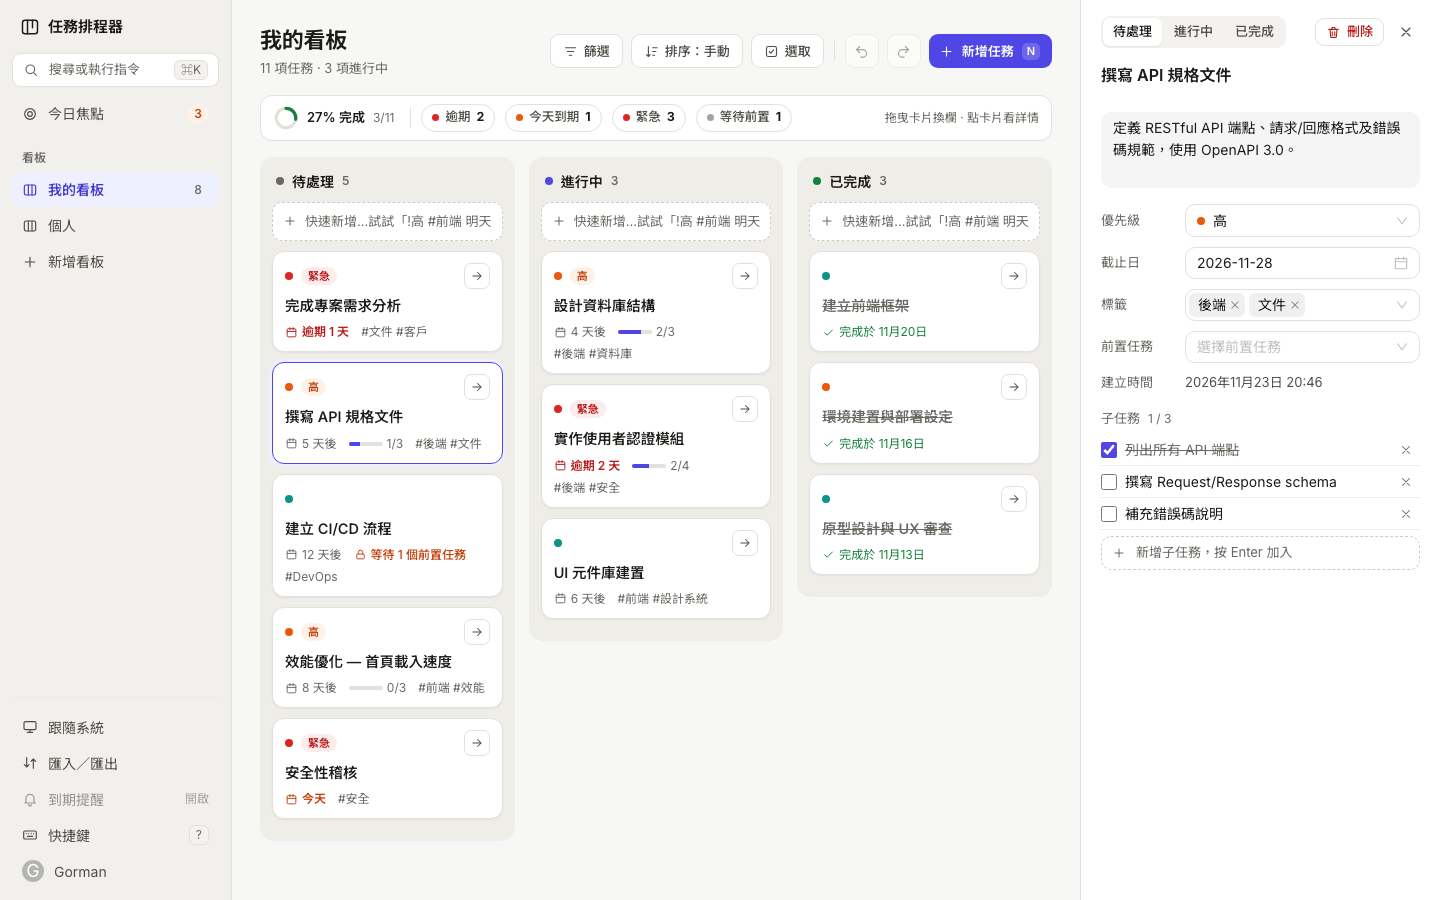
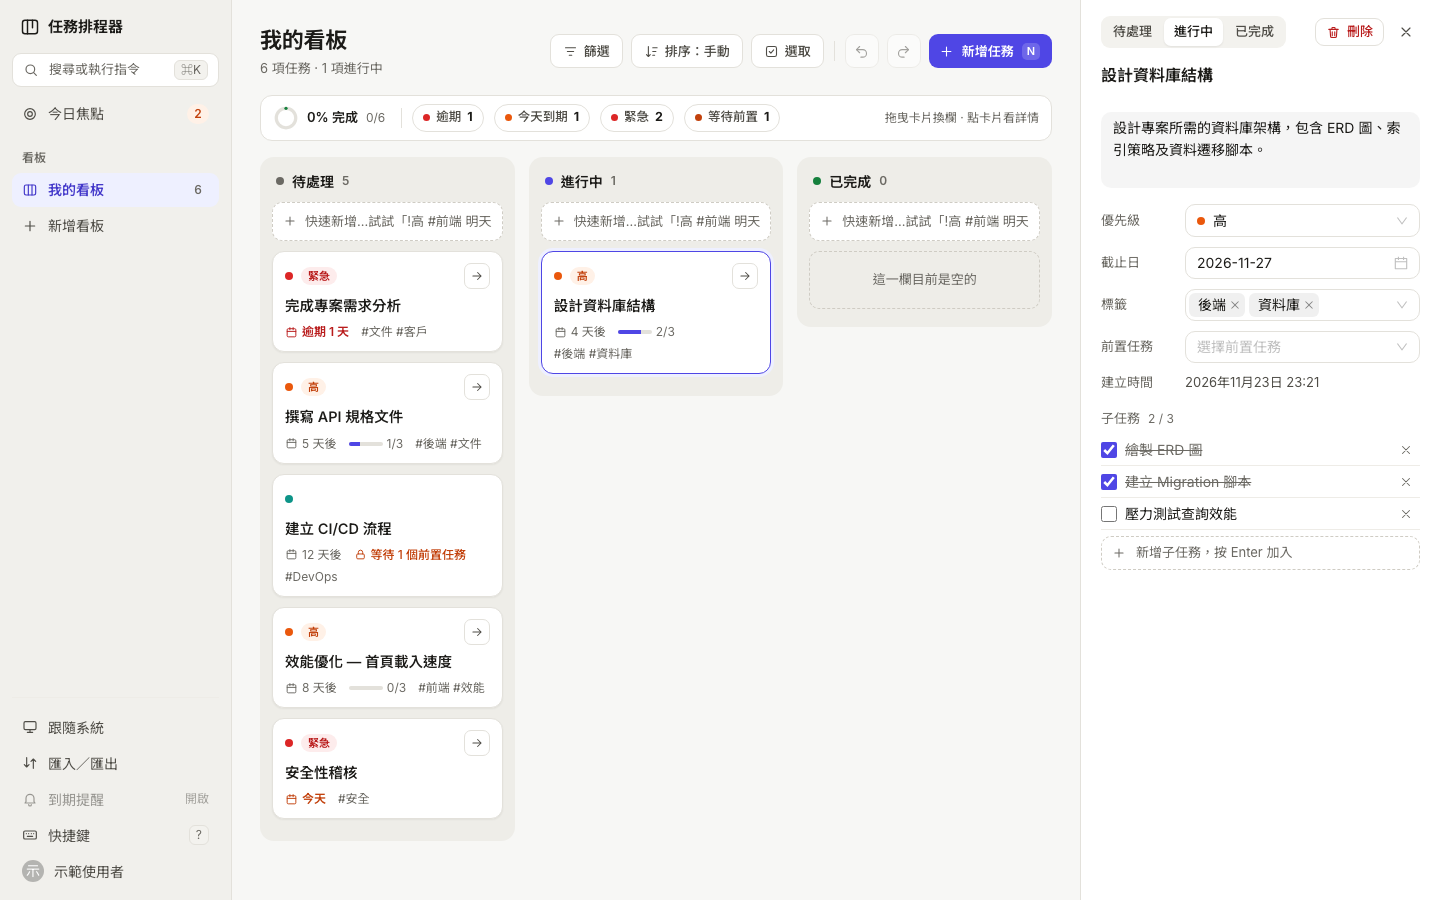
docs: README with live URL, security notes and real screenshots; fix Vercel output dir
- vercel.json: set outputDirectory to .next (the Vercel project still had the
  old Vite "dist" setting, which failed every Next.js deploy)
- README: keep the site URL up top, add architecture and security sections,
  document connecting Neon via `vercel integration add neon`, keeping Preview
  off the production database, and that a Vercel-generated .env.local may
  point at production; E2E now says it needs a Neon branch
- docs/: screenshots of the real app (board, Today focus in dark mode, mobile)
  taken with a demo account and sample tasks on a throwaway database

diff --git a/README.md b/README.md
@@ -1,24 +1,30 @@
 # 任務排程器 Task Scheduler
 
-個人用的看板式任務管理：登入後資料存在雲端資料庫，每台裝置同步。以「今日焦點」把所有看板中該做的事排在一起，用快速新增語法與 ⌘K 指令面板，不離開鍵盤就能新增、跳轉、操作任務。
+個人用的看板式任務管理。登入後資料存在雲端資料庫，每台裝置同步；「今日焦點」把所有看板裡該做的事排在一起，搭配快速新增語法與 ⌘K 指令面板，不離開鍵盤就能新增、跳轉、操作任務。
 
-![任務排程器截圖：看板頁，含統計列、三欄看板與右側詳情欄](./docs/screenshot.png)
+**網站入口：<https://task-scheduler-rouge-gr925.vercel.app/>**（用 GitHub 或 Google 帳號登入，每個人的資料各自獨立）
 
-[線上版](https://task-scheduler-rouge-gr925.vercel.app/)（需用 GitHub 或 Google 登入）
+![看板頁：左側欄、統計列、待處理／進行中／已完成三欄，右側開著「設計資料庫結構」的詳情欄](./docs/screenshot.png)
+
+| 今日焦點（深色模式） | 手機版 |
+|:---:|:---:|
+| ![今日焦點：已逾期、今天到期、接下來 7 天、等待前置任務四組，右側是建議先處理與看板進度](./docs/screenshot-focus-dark.png) | <img src="./docs/screenshot-mobile.png" alt="手機版看板：狀態分頁切換欄位，右下角浮動新增按鈕" width="260"> |
+
+> 截圖是用示範帳號與內建的範例任務在本機拍攝，不含任何真實使用者資料。
 
 ## 功能
 
-- **今日焦點**：跨看板彙整「已逾期 / 今天到期 / 接下來 7 天 / 等待前置任務」，並建議先處理哪一件、各看板進度與過去 7 天完成數。
-- **看板**：多個看板；待處理／進行中／已完成三欄，可拖曳排序與換欄；統計列（完成率、逾期、今天到期、緊急、等待前置）的晶片同時是篩選器；另有篩選、排序與全文搜尋。
+- **今日焦點**：跨看板彙整「已逾期 / 今天到期 / 接下來 7 天 / 等待前置任務」，並建議先處理哪一件，顯示各看板進度與過去 7 天完成數。
+- **看板**：可建多個看板；待處理／進行中／已完成三欄，拖曳排序與換欄。統計列（完成率、逾期、今天到期、緊急、等待前置）的晶片同時是篩選器；另有篩選、排序與全文搜尋。
 - **⌘K 指令面板**：搜尋所有看板的任務（標題與標籤）與動作（新增任務、前往今日焦點、切換看板與主題、匯出／匯入、開啟到期提醒、復原）；沒有結果時按 Enter 直接建立新任務。
 - **智慧快速新增**：每欄頂端的輸入框即時解析語法並預覽（見下表）。
-- **右側詳情欄**：直接編輯標題、描述、優先級、截止日、標籤、前置任務、子任務；不遮住看板。網址帶 `?task=<id>`，可直接分享或重新整理後回到同一筆。
-- **刪除即復原**：刪除不跳確認框，底部提示列約 6 秒內可按「復原」；所有變更皆可 `⌘Z` 復原、`⌘⇧Z` 重做。刪除看板仍會先確認。
-- **批次操作**：選取多筆任務後一次移動狀態或刪除（被前置任務擋住的任務會被略過並回報）。
-- **前置任務**：有未完成前置任務的待處理任務會顯示「等待前置任務」，在前置任務完成前不能開始。
-- **匯入／匯出**：匯出目前看板為 JSON；匯入**只會取代目前看板**的任務，其他看板不受影響，且可用 `⌘Z` 復原。也能匯入舊版（Vite 版）匯出的檔案。
+- **右側詳情欄**：直接編輯標題、描述、優先級、截止日、標籤、前置任務、子任務，不遮住看板。網址帶 `?task=<id>`，重新整理後會回到同一筆。
+- **刪除即復原**：刪除不跳確認框，底部提示列約 6 秒內可按「復原」；所有變更都能 `⌘Z` 復原、`⌘⇧Z` 重做。刪除看板仍會先確認。
+- **批次操作**：選取多筆任務後一次移動狀態或刪除；被前置任務擋住的任務會被略過並回報。
+- **前置任務**：還有未完成前置任務的待處理任務會標示「等待前置任務」，在前置任務完成前不能開始；循環相依會被拒絕。
+- **匯入／匯出**：匯出目前看板為 JSON；匯入**只會取代目前看板**的任務，其他看板不受影響，也能用 `⌘Z` 復原。可匯入舊版（Vite 版）匯出的檔案。
 - **舊資料搬家**：第一次登入時，若這台瀏覽器還留有舊版存在 localStorage 的資料，頁面頂端會提示「匯入 / 略過」；舊資料本身不會被刪除。
-- **到期提醒（需手動開啟）**：預設關閉，也不會一開頁就詢問權限；在側欄或指令面板按「開啟到期提醒」後，分頁開著時每 10 分鐘檢查一次逾期與 24 小時內到期的任務，同一筆只通知一次。
+- **到期提醒（需手動開啟）**：預設關閉，也不會一開頁就詢問權限。在側欄或指令面板按「開啟到期提醒」後，分頁開著時每 10 分鐘檢查一次逾期與 24 小時內到期的任務，同一筆只通知一次。
 - **深色模式**：淺色／深色／跟隨系統。
 - **手機版**（< 768px）：側欄變抽屜、看板一次顯示一欄、詳情欄改為底部面板、右下角浮動新增按鈕。
 
@@ -51,40 +57,62 @@
 | `⌘⇧Z` / `Ctrl+Y` | 重做 |
 | `?` | 快捷鍵說明 |
 
+## 架構
+
+前端與 API 在同一個 Next.js 專案裡，部署在 Vercel，資料存在 Neon Postgres。
+
+```
+app/            頁面（(auth)/login、(app)/ 今日焦點與看板）與 API（app/api/*）
+src/server/     資料庫 schema、Better Auth 設定、各資源的 service（所有查詢都帶使用者 id）
+src/client/     Redux store、RTK Query、復原／重做、快捷鍵
+src/components/ 介面元件
+src/lib/        前後端共用的純函式（快速新增解析、日期、排序位置、輸入檢查）
+drizzle/        資料庫 migration
+test/  e2e/     Vitest 單元與 API 測試、Playwright 端對端測試
+```
+
+## 資安
+
+- **密鑰不進版本庫。** 所有連線字串與 OAuth 密鑰只放在環境變數：本機在 `.env.local`（`.env*.local` 已被 `.gitignore` 排除），正式環境在 Vercel 專案設定。版本庫裡只有不含任何值的 `.env.example`。不要把真實的值寫進 README、issue、PR 或截圖。
+- **每個人只看得到自己的資料。** 每個 API 都先確認登入（未登入回 401），所有資料庫查詢都以登入者的 id 篩選；別人的看板或任務 id 一律當作不存在。
+- **帳號合併要已驗證的 email。** GitHub 與 Google 回報相同 email、且雙方都標示已驗證時才視為同一人，避免用未驗證的 email 接管別人的帳號（見下方「登入與帳號連結」）。
+- **測試用的密碼登入在正式環境永遠關閉。** `E2E_AUTH=1` 只在 `NODE_ENV` 不是 `production` 時生效，Vercel 上也不要設定它。
+- **輸入一律檢查。** API 的請求內容都經過 zod 驗證並限制長度與數量；登入後的跳轉只接受站內路徑，避免被利用成開放式重新導向。
+- **預覽部署受保護。** Vercel 的 Preview 網址開啟了部署保護，只有專案成員能看。
+
+如果發現安全問題，請私下聯絡作者，不要開公開 issue。
+
 ## 本機開發
 
 需要 Node.js 20.9+ 與 npm。
 
 1. 安裝相依套件：`npm install`
-2. 建立資料庫：在 [Neon](https://neon.tech) 建一個 Postgres 專案，複製連線字串（`postgresql://…`）。
+2. 準備資料庫：在 [Neon](https://neon.tech) 為開發另開一個 branch（不要用正式資料庫），複製它的連線字串（`postgresql://…`）。
 3. 建立 GitHub OAuth App（GitHub → Settings → Developer settings → OAuth Apps）：
    - Homepage URL：`http://localhost:3000`
    - Authorization callback URL：`http://localhost:3000/api/auth/callback/github`
 4. 建立 Google OAuth 用戶端（Google Cloud Console → API 和服務 → 憑證 → OAuth 用戶端 ID，類型「網頁應用程式」）：
    - 已授權的重新導向 URI：`http://localhost:3000/api/auth/callback/google`
-5. 複製環境變數範本並填值：`cp .env.example .env.local`
-   - `DATABASE_URL`：第 2 步的連線字串
-   - `BETTER_AUTH_SECRET`：`openssl rand -base64 32` 產生
-   - `BETTER_AUTH_URL`：`http://localhost:3000`
-   - `GITHUB_CLIENT_ID` / `GITHUB_CLIENT_SECRET`、`GOOGLE_CLIENT_ID` / `GOOGLE_CLIENT_SECRET`：第 3、4 步取得
+5. 複製環境變數範本並填值：`cp .env.example .env.local`（各變數見下節）。
+   > 用 `vercel env pull` 或 `vercel integration add neon` 產生的 `.env.local`，裡面的 `DATABASE_URL` 是 Vercel 上 Development 環境的值；若那個值指向正式資料庫，本機開發就會直接讀寫正式資料，請改成第 2 步的開發 branch。
 6. 建立資料表：`npm run db:migrate`。drizzle-kit 只讀 `.env`、不讀 `.env.local`，請先在 shell 設定 `DATABASE_URL`，例如 `export $(grep '^DATABASE_URL=' .env.local)`。
-7. 啟動：`npm run dev`，開啟 `http://localhost:3000`。未登入會被導向 `/login`（已登入再開 `/login` 會直接回到 `?next=` 指的頁面，預設今日焦點）；第一次登入會自動建立「我的看板」。
-8. 檢查：`npm test`（Vitest，用 PGlite，不需要資料庫）、`npx tsc --noEmit`、`npm run lint`、`npm run build`。
-
-帳號連結規則見下方「登入與帳號連結」。
+7. 啟動：`npm run dev`，開啟 `http://localhost:3000`。未登入會被導向 `/login`；第一次登入會自動建立「我的看板」，空看板上可按「載入範例任務」。
+8. 檢查：`npm test`、`npx tsc --noEmit`、`npm run lint`、`npm run build`。
 
 ## 環境變數
 
-複製 `.env.example` 為 `.env.local` 後填值。正式環境在 Vercel 專案設定中設定同名變數。
+本機寫在 `.env.local`，正式環境在 Vercel 專案設定中設定同名變數。
 
 | 變數 | 說明 |
 |------|------|
-| `DATABASE_URL` | Neon 的 Postgres 連線字串（本機開發也一樣：資料庫驅動 `@neondatabase/serverless` 走 Neon 的 WebSocket，一般本機 Postgres 連不上；`npm test` 用 PGlite，不需要） |
-| `BETTER_AUTH_SECRET` | Better Auth 簽署 session 用的密鑰，以 `openssl rand -base64 32` 產生 |
-| `BETTER_AUTH_URL` | 網站的公開網址：本機 `http://localhost:3000`，正式環境為你的網域 |
+| `DATABASE_URL` | Neon 的 Postgres 連線字串。資料庫驅動 `@neondatabase/serverless` 走 Neon 的 WebSocket，一般本機 Postgres 連不上；`npm test` 用 PGlite，不需要 |
+| `BETTER_AUTH_SECRET` | 簽署登入 session 的密鑰，以 `openssl rand -base64 32` 產生；Production 與 Preview 各用一組 |
+| `BETTER_AUTH_URL` | 網站的公開網址：本機 `http://localhost:3000`，正式環境 `https://task-scheduler-rouge-gr925.vercel.app` |
 | `GITHUB_CLIENT_ID` / `GITHUB_CLIENT_SECRET` | GitHub OAuth App |
 | `GOOGLE_CLIENT_ID` / `GOOGLE_CLIENT_SECRET` | Google OAuth 用戶端 |
-| `E2E_AUTH` | 設為 `1` 時（且 `NODE_ENV` 不是 `production`）啟用 email／密碼登入，僅供 Playwright E2E 使用；正式環境永遠不會啟用，也不要設定 |
+| `E2E_AUTH` | 設為 `1` 時（且 `NODE_ENV` 不是 `production`）啟用 email／密碼登入，僅供 Playwright 使用；正式環境不要設定 |
+
+Vercel 的 Neon 整合還會加上 `POSTGRES_*`、`PG*`、`NEON_*` 等變數，本專案沒有用到，保留即可。
 
 ## npm scripts
 
@@ -104,25 +132,27 @@
 
 `e2e/main-flow.spec.ts` 走完主要流程：登入 → 快速新增 → 拖到進行中 → 詳情欄改優先級 → 刪除再復原 → 建第二個看板 → ⌘K 跳到另一個看板的任務 → 今日焦點 → 重新整理後資料仍在 → 全程沒有請求通知權限。
 
-- 需要一個**測試專用**的 Postgres（建議在 Neon 開一個 branch），先套用 migration：`export DATABASE_URL=postgresql://…` 後執行 `npm run db:migrate`。
-- 還要有 `BETTER_AUTH_SECRET` 與 `BETTER_AUTH_URL=http://localhost:3000`（GitHub／Google 變數可留空）。Playwright 會自行啟動 `npm run dev` 並帶上 `E2E_AUTH=1`，由 `e2e/global-setup.ts` 註冊一個測試帳號、把登入狀態存到 `e2e/.auth/`（已加入 .gitignore）。
+- 需要一個**測試專用的 Neon branch**（不能用一般本機 Postgres，原因見「環境變數」）。先套用 migration：`export DATABASE_URL=postgresql://…` 後執行 `npm run db:migrate`。
+- 還要有 `BETTER_AUTH_SECRET` 與 `BETTER_AUTH_URL=http://localhost:3000`（GitHub／Google 變數可留空）。Playwright 會自行啟動 `npm run dev` 並帶上 `E2E_AUTH=1`，由 `e2e/global-setup.ts` 註冊一個測試帳號、把登入狀態存到 `e2e/.auth/`（已加入 `.gitignore`）。
 - 首次執行先安裝瀏覽器：`npx playwright install chromium`。
-- **沒有設定 `DATABASE_URL` 時整組測試會自動略過**，`npm run test:e2e` 仍以 0 結束。每次執行都會在資料庫留下一個測試帳號，請只用在拋棄式的測試資料庫。
+- **沒有設定 `DATABASE_URL` 時整組測試會自動略過**，`npm run test:e2e` 仍以 0 結束。每次執行都會在資料庫留下一個測試帳號，請只用在拋棄式的測試 branch。
 
 ## 部署到 Vercel
 
-1. 把專案匯入 Vercel，Framework 選 Next.js（`vercel.json` 已指定）。
-2. 在專案設定加入上節的環境變數（不要設 `E2E_AUTH`）。`BETTER_AUTH_URL` 填正式網域（例如 `https://your-app.vercel.app`）。`DATABASE_URL` **依 Vercel 環境分開設定**：Production 用正式的 Neon 資料庫，Preview 用另一個 Neon branch。因為第 4 步的 build 指令每次建置都會先跑 `db:migrate`，Preview 若共用正式的 `DATABASE_URL`，任何分支的預覽部署都會把尚未合併的 migration 套到正式資料庫。
-3. 把 OAuth 的 callback 改成正式網域（或另外再建一組給正式環境）：
-   - GitHub：`https://<正式網域>/api/auth/callback/github`
-   - Google：`https://<正式網域>/api/auth/callback/google`
-4. 部署。`vercel.json` 的 build 指令是 `npm run db:migrate && npm run build`，每次部署（Production 與 Preview 都是）會先對該環境的 `DATABASE_URL` 套用尚未執行的 migration，成功才繼續建置；migration 失敗會讓部署失敗而不會上線。
+1. 把專案匯入 Vercel。`vercel.json` 已指定 framework（Next.js）與輸出目錄 `.next`，會蓋過專案設定裡從舊 Vite 版留下的 `dist`。
+2. 接上 Neon：在專案資料夾執行 `vercel integration add neon`（Vercel CLI 需 47 版以上，舊版可用 `npx vercel@latest`），條款在終端機裡確認，連結 Production 與 Preview。它會自動寫入 `DATABASE_URL`。
+3. **讓 Preview 用另一個資料庫。** build 指令每次部署都會先跑 `db:migrate`，Preview 若和 Production 共用 `DATABASE_URL`，任何分支的預覽部署都會把尚未合併的 migration 套到正式資料庫。到 Neon 整合的設定開啟「每個 Preview 部署建立 branch」，或手動把 Preview 的 `DATABASE_URL` 改成另一個 branch。
+4. 設定其餘環境變數（見上節，不要設 `E2E_AUTH`）。密鑰用 `vercel env add <名稱> <環境>` 在終端機貼上，不要寫進任何檔案；`BETTER_AUTH_SECRET` 可直接 `openssl rand -base64 32 | vercel env add BETTER_AUTH_SECRET production`。
+5. 把 OAuth 的 callback 設成正式網域（或另外建一組給正式環境）：
+   - GitHub：`https://task-scheduler-rouge-gr925.vercel.app/api/auth/callback/github`
+   - Google：`https://task-scheduler-rouge-gr925.vercel.app/api/auth/callback/google`
+6. 部署。`vercel.json` 的 build 指令是 `npm run db:migrate && npm run build`：先對該環境的資料庫套用尚未執行的 migration，成功才繼續建置；migration 失敗會讓部署失敗，不會上線。
 
-舊網址的訪客上線後必須登入；他們瀏覽器裡的舊資料會在登入後被偵測，並提示匯入。
+Preview 網址每次部署都不同，GitHub／Google 只接受登記過的 callback，所以 OAuth 登入只在正式網址可用。舊版的訪客上線後必須登入；他們瀏覽器裡的舊資料會在登入後被偵測並提示匯入。
 
 ## 登入與帳號連結
 
-只提供 GitHub 與 Google 登入。兩邊回報**相同的 email、且都標示為已驗證**時，視為同一個帳號（同一份看板）；否則不會自動合併，這次登入會被拒絕，Better Auth 把使用者帶回登入頁，頁面會顯示「這個 email 已經用另一種方式登入過，且尚未驗證，因此無法自動合併。」。email 在使用者表中唯一，所以不會另建第二個帳號。
+只提供 GitHub 與 Google 登入。兩邊回報**相同的 email、且都標示為已驗證**時，視為同一個帳號（同一份看板）；否則不會自動合併，這次登入會被拒絕並帶回登入頁，顯示「這個 email 已經用另一種方式登入過，且尚未驗證，因此無法自動合併。」。email 在使用者表中唯一，所以不會另建第二個帳號。
 
 ## 技術棧
 
@@ -137,7 +167,7 @@
 
 ## Contributing
 
-歡迎提交 Pull Request。
+歡迎提交 Pull Request。請勿在 PR、issue 或 commit 中附上任何連線字串、密鑰或 `.env.local` 的內容。
 
 ## License
 
